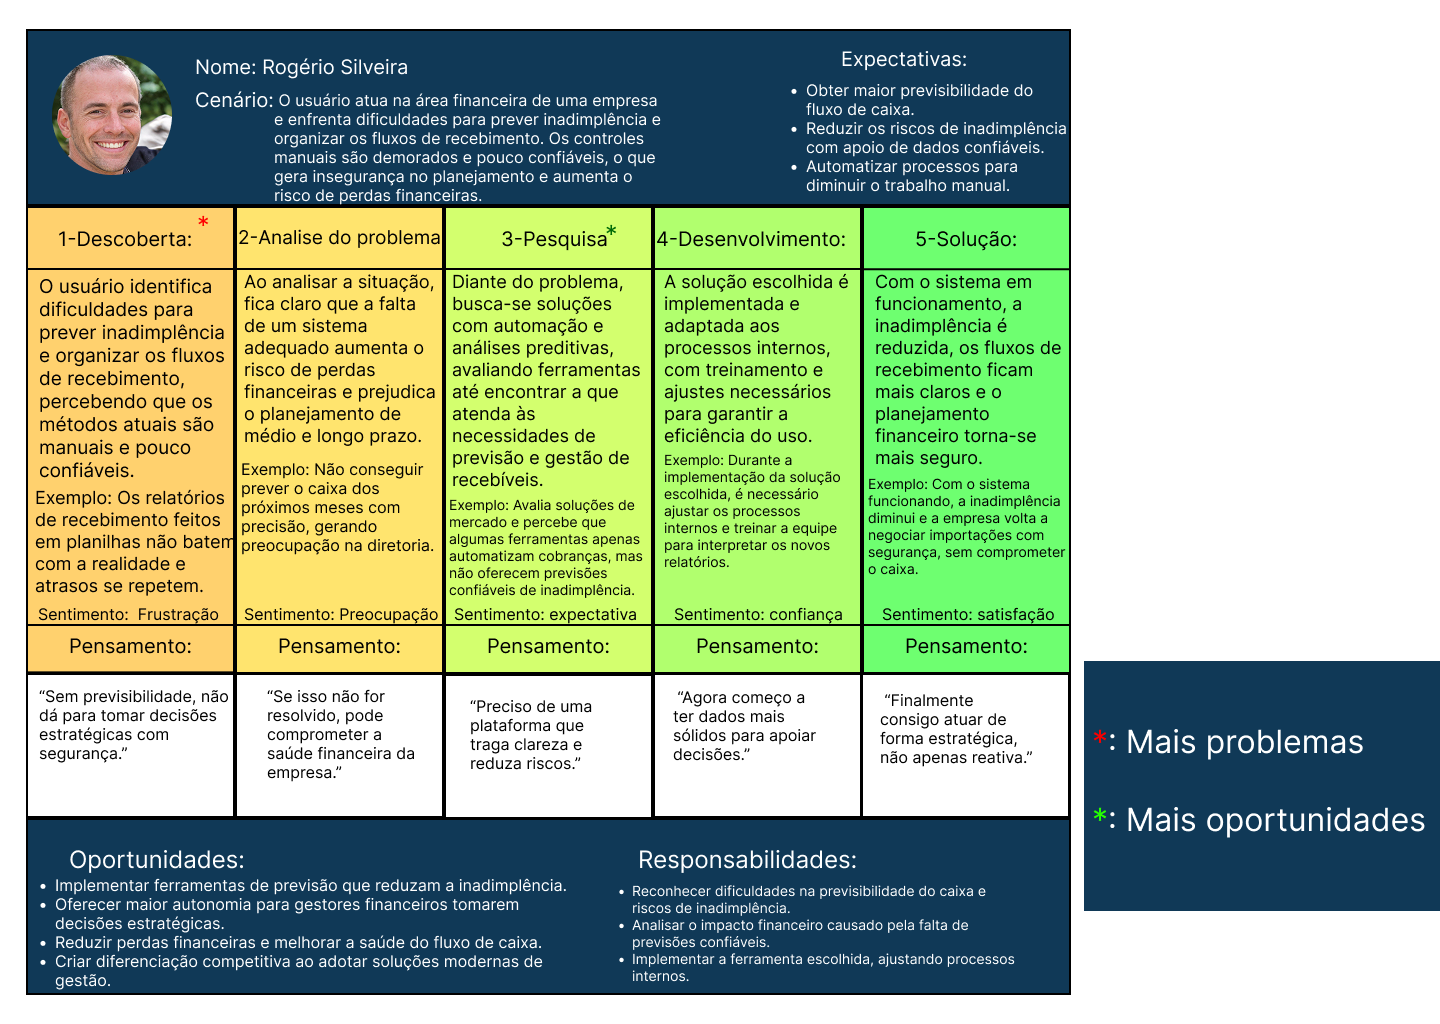
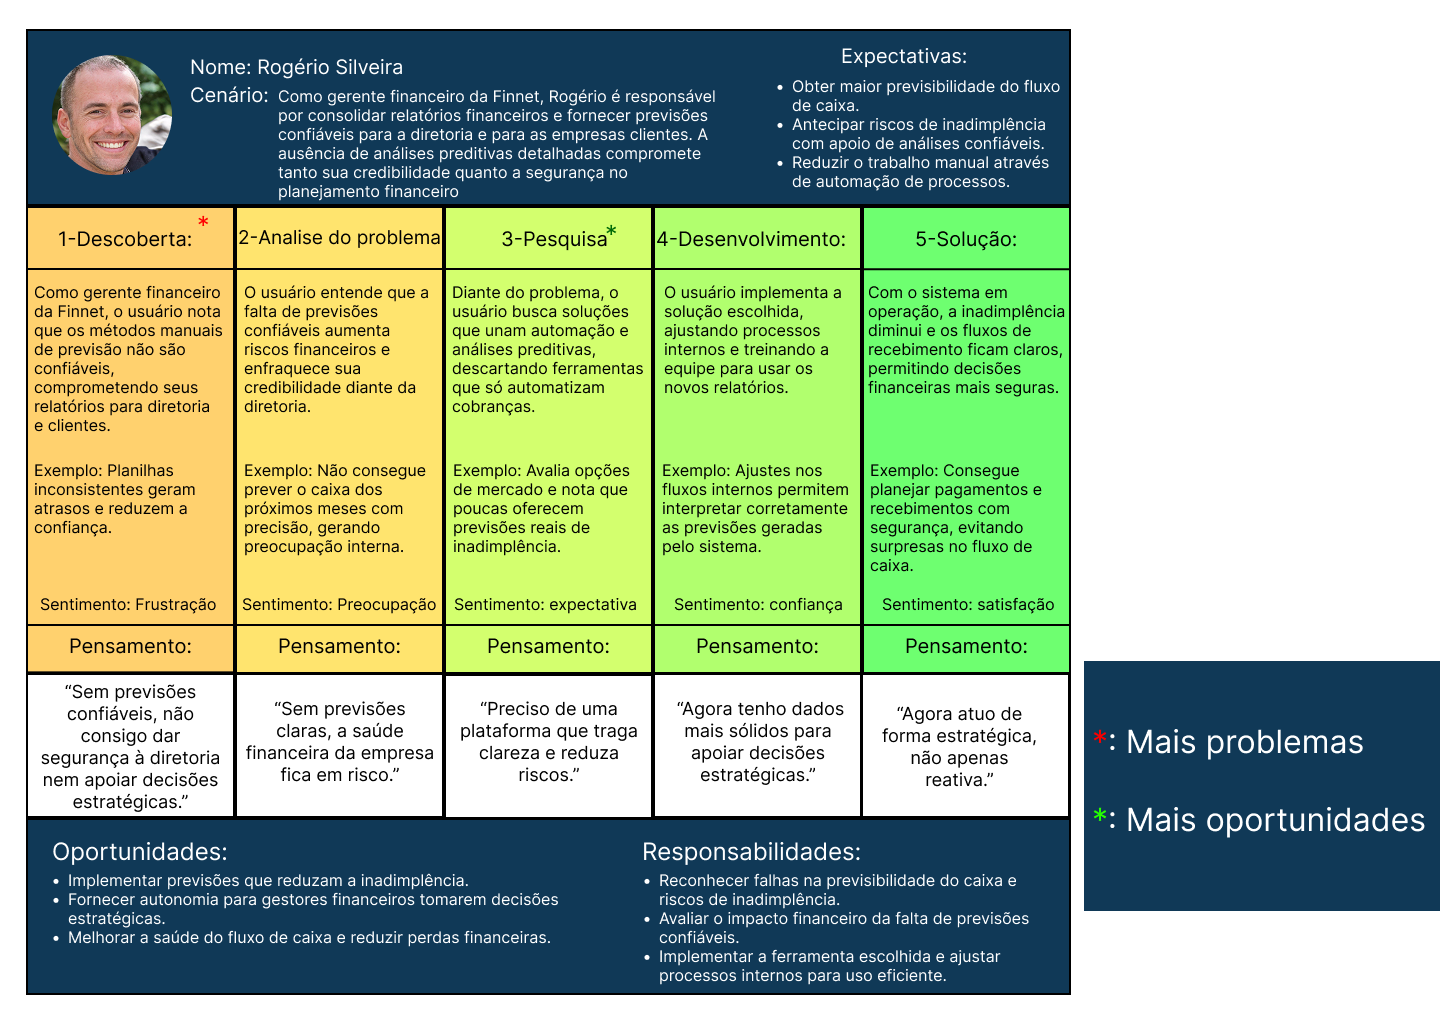
docs: alterando imagem e texto na seção 4.1.7

diff --git a/documents/documentacao.md b/documents/documentacao.md
@@ -405,7 +405,7 @@ A persona escolhida, Carlos Almeida, representa uma pessoa jurídica e reflete o
 <sup>Fonte: Produzido pelo grupo, 2025.</sup>
 </div>
 
-Escolhemos essa persona para a criação do journey map porque ela representa diretamente o perfil de cliente que a empresa Finnet busca atender: profissionais da área financeira que enfrentam dificuldades na previsibilidade do fluxo de caixa, no controle da inadimplência e na organização dos recebimentos. Ao adotar a persona de Rogério Silveira, conseguimos retratar de forma clara as dores de um tomador de decisão dentro da empresa, que lida com processos manuais, pouco confiáveis e demorados, gerando insegurança e riscos de perdas financeiras. Esse cenário evidencia não apenas os problemas reais enfrentados, mas também as oportunidades de solução que a Finnet pode oferecer, como automação, previsões confiáveis e redução do trabalho manual. Assim, o journey map se torna uma ferramenta estratégica para compreender a jornada do cliente empresarial, mostrando como as soluções propostas pela Finnet podem transformar frustrações em confiança e satisfação, fortalecendo o posicionamento da empresa como parceira essencial na modernização da gestão financeira.
+Escolhemos o Rogério como persona do journey map porque ele representa um ator crítico dentro da Finnet: o gerente financeiro responsável por consolidar relatórios e entregar previsões confiáveis à diretoria e às empresas clientes. A ausência de análises preditivas detalhadas hoje compromete sua confiabilidade e reduz a segurança do planejamento financeiro. Ao mapear sua jornada, evidenciamos gargalos como processos manuais, dispersão de dados e ciclos de fechamento demorados, e identificamos oportunidades de evolução com automação, integração de fontes, modelagem preditiva e relatórios em tempo real. Assim, o journey map orienta a priorização de soluções que elevem a acurácia das previsões, reduzam retrabalho e fortaleçam o papel da Finnet como parceira confiável na gestão financeira dos clientes.
 
 
 Em síntese, o uso de journey maps se mostrou fundamental para garantir que o desenvolvimento do modelo preditivo em Python fosse orientado não apenas pela lógica técnica, mas também pela perspectiva do usuário. Ao possibilitar a visualização detalhada da jornada, essa ferramenta contribuiu para antecipar potenciais barreiras, refinar pontos de interação e alinhar a solução às reais necessidades dos futuros usuários. Assim, asseguramos que o projeto alcance maior usabilidade, relevância prática e impacto efetivo no contexto em que será aplicado.
